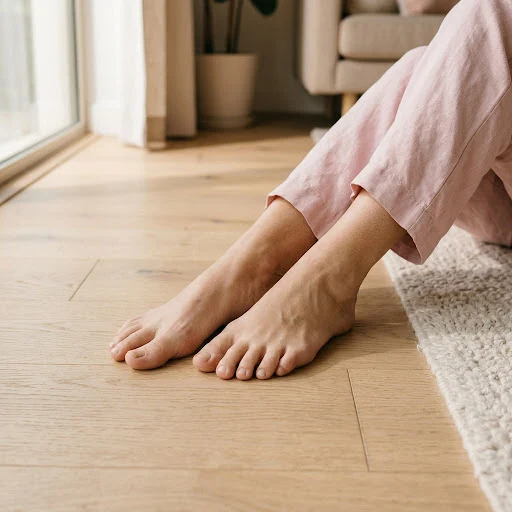
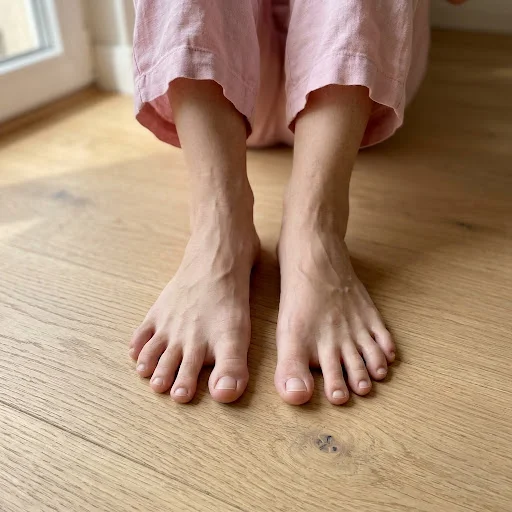
Nueva foto de Abrir los dedos y cache v3

diff --git a/sw.js b/sw.js
@@ -1,6 +1,6 @@
 // Pies Sin Molestias: guarda la app y las fotos para que abra sin conexión.
 // Cambiá VERSION cada vez que publiques cambios, así los celulares bajan la versión nueva.
-const VERSION = "psm-v2";
+const VERSION = "psm-v3";
 const SHELL = [
   "./pies-sin-molestias.html",
   "./manifest.webmanifest",
